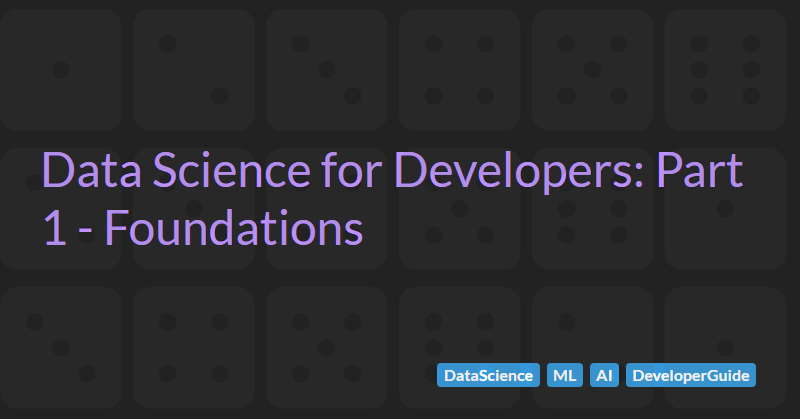
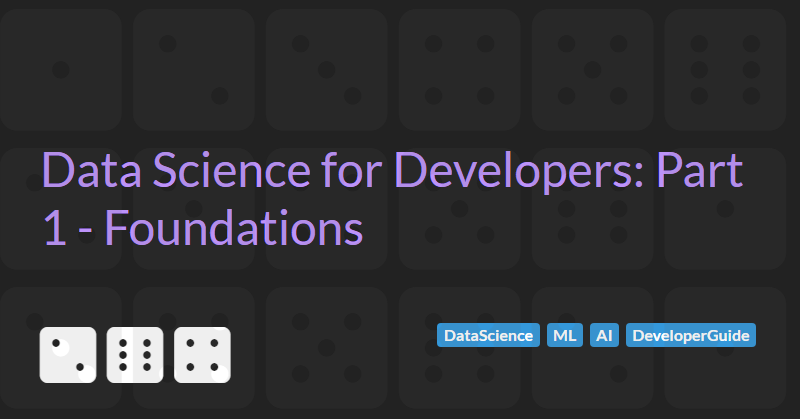
Blog Update 1589

Changed region(s): [[0.0312, 0.7757, 0.3125, 0.9308], [0.5312, 0.7446, 0.9688, 0.8377], [0.5312, 0.8687, 0.9688, 0.9308]]

diff --git a/Blog/AgileTechnicalPractices/RunningLagunaS21OnAGMKtecEVOX2.html b/Blog/AgileTechnicalPractices/RunningLagunaS21OnAGMKtecEVOX2.html
@@ -274,7 +274,7 @@ Invoke-RestMethod `
 <p>Two details from poolside's documentation are worth knowing here. Tool calling relies on the model's chat template, which <code>llama-server</code> now applies by default (older guides tell you to pass <code>--jinja</code>). Poolside also warns that dropping the model's reasoning content between turns can stop it reasoning in later agentic turns, so check how your client handles it if behaviour degrades over a long session.</p>
 <p>The finished stack looks like this:</p>
 <pre class="mermaid">flowchart TD
-    A[OpenCode] -->|OpenAI-compatible API| B[llama-server / ROCmFPX]
+    A[OpenCode] -->|OpenAI-compatible API| B[llama-server and ROCmFPX]
     B -->|ROCm or Vulkan| C[Radeon 8060S, ~110 GB]
     C --> D[Laguna S 2.1 Q4_K_M]
 </pre>
